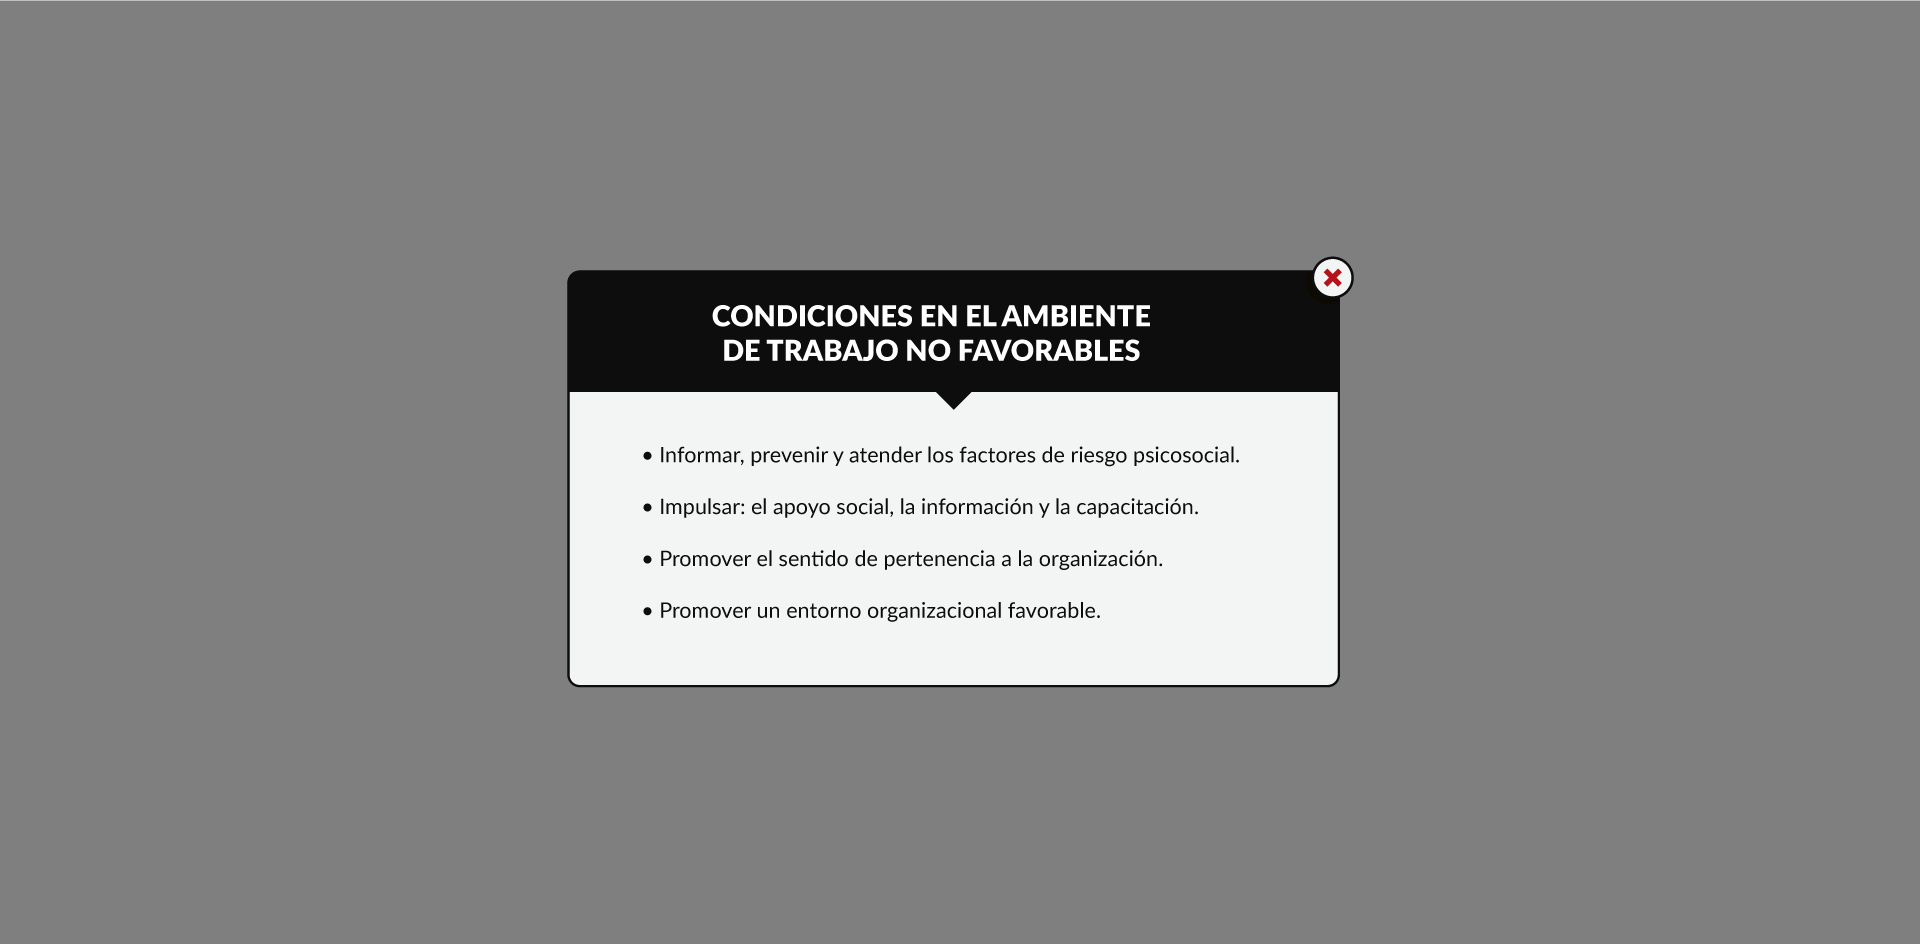
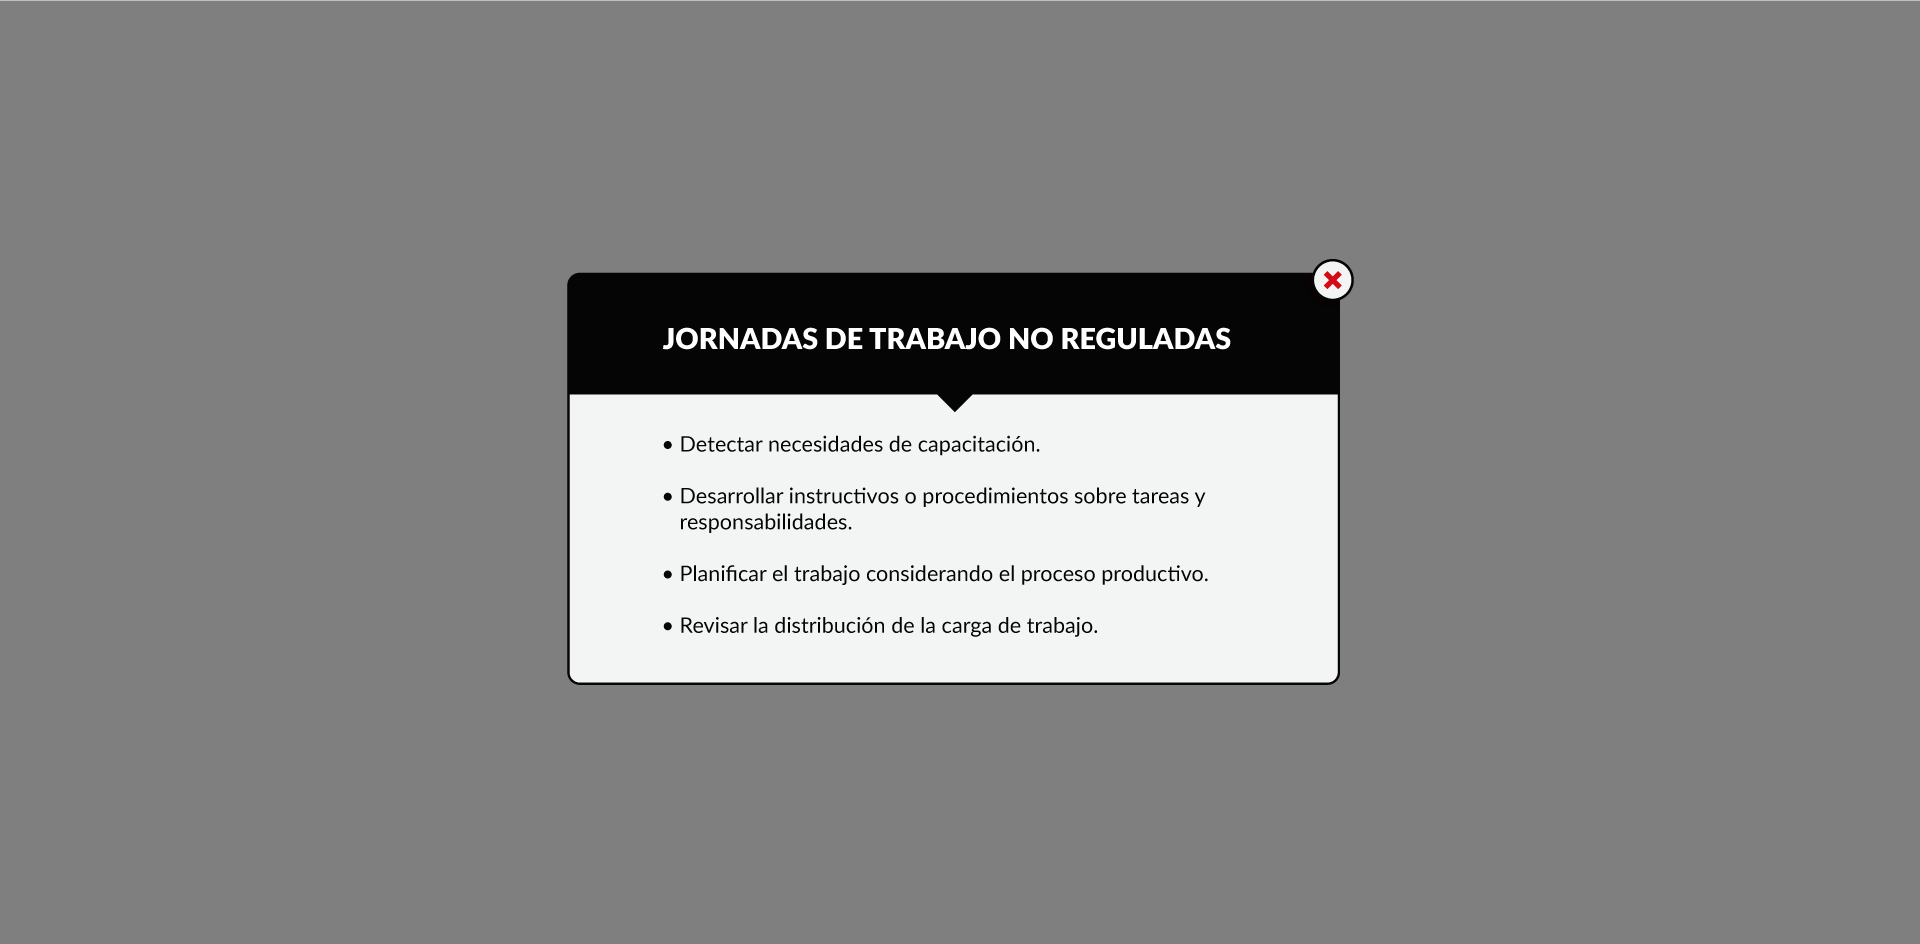
Botones pantalla9

diff --git a/normamexicana/nom_35/index.html b/normamexicana/nom_35/index.html
@@ -128,12 +128,16 @@
             <div id="nom8_img8" class="contentIMG" style='background-image: url("librerias/images/page9/img08.png"); width: 100vw; height: calc(100vw*944/1920);'></div>
             <div id="nom8_img9" class="contentIMG" style='background-image: url("librerias/images/page9/img09.png"); width: 100vw; height: calc(100vw*944/1920);'></div>
             <div id="nom8_img10" class="contentIMG" style='background-image: url("librerias/images/page9/img10.png"); width: 100vw; height: calc(100vw*944/1920);'></div>
+            <div id="nom8_img11" class="contentIMG" style='background-image: url("librerias/images/page9/img11.png"); width: 100vw; height: calc(100vw*944/1920);'></div>
            
-            <div id="click1" style="cursor: pointer;width: 3vw;height: 3vw;top: 3vw;right: 32vw; background-color:rgba(67, 67, 168, 0.369);"></div>
-            <div id="cerrar1" style="cursor: pointer;width: 3vw;height: 3vw;top: 16vw;right: 32vw; background-color:rgba(151, 67, 168, 0.473);"></div>
-            <!--<div id="click2" style="cursor: pointer;width: 4vw;height: 4vw;top: 13vw;right: 32vw; background-color:#4343a85e;"></div>
-            <div id="click3" style="cursor: pointer;width: 4vw;height: 4vw;top: 13vw;right: 32vw; background-color:#4343a85e;"></div>
-            <div id="click4" style="cursor: pointer;width: 4vw;height: 4vw;top: 13vw;right: 32vw; background-color:#4343a85e;"></div>-->
+            <div id="click1" style="cursor: pointer;width: 3vw;height: 3vw;top: 8vw;right: 80.3vw; background-color:rgba(67, 67, 168, 0.369);"></div>
+            <div id="cerrar1" style="cursor: pointer;width: 3vw;height: 3vw;top: 13.3vw;right: 29.1vw; background-color:rgba(151, 67, 168, 0.473);"></div>
+            <div id="click2" style="cursor: pointer;width: 3vw;height: 3vw;top: 8vw;right: 18.9vw; background-color:#4343a85e;"></div>
+            <div id="cerrar2" style="cursor: pointer;width: 3vw;height: 3vw;top: 10.5vw;right: 29.1vw; background-color:rgba(151, 67, 168, 0.473);"></div>
+            <div id="click3" style="cursor: pointer;width: 3vw;height: 3vw;top: 30.7vw;right: 58.3vw; background-color:#4343a85e;"></div>
+            <div id="cerrar3" style="cursor: pointer;width: 3vw;height: 3vw;top: 13.3vw;right: 29.1vw; background-color:rgba(151, 67, 168, 0.473);"></div>
+            <div id="click4" style="cursor: pointer;width: 3vw;height: 3vw;top: 30.3vw;right: 39.5vw; background-color:#4343a85e;"></div>
+            <div id="cerrar4" style="cursor: pointer;width: 3vw;height: 3vw;top: 13.3vw;right: 29.1vw; background-color:rgba(151, 67, 168, 0.473);"></div>
 
 
 

diff --git a/normamexicana/nom_35/librerias/js/_main.js b/normamexicana/nom_35/librerias/js/_main.js
@@ -292,7 +292,14 @@ function slide8 (i) {
     $("#nom8_img8").fadeOut();
     $("#nom8_img9").fadeOut();
     $("#nom8_img10").fadeOut();
+    $("#nom8_img11").fadeOut();
     $("#cerrar1").fadeOut();
+    $("#click2").fadeOut();
+    $("#cerrar2").fadeOut();
+    $("#click3").fadeOut();
+    $("#cerrar3").fadeOut();
+    $("#click4").fadeOut();
+    $("#cerrar4").fadeOut();
 
     $("#click1").click(function(){
        
@@ -301,6 +308,62 @@ function slide8 (i) {
         $("#cerrar1").fadeIn();
 
     });
+
+    $("#cerrar1").click(function(){
+       
+      $("#cerrar1").fadeOut();
+      $("#nom8_img8").fadeOut();
+      $("#click2").fadeIn();
+
+  });
+
+  $("#click2").click(function(){
+       
+    $("#click2").fadeOut();
+    $("#nom8_img9").fadeIn();
+    $("#cerrar2").fadeIn();
+
+});
+
+$("#cerrar2").click(function(){
+   
+  $("#cerrar2").fadeOut();
+  $("#nom8_img9").fadeOut();
+  $("#click3").fadeIn();
+
+});
+
+$("#click3").click(function(){
+       
+  $("#click3").fadeOut();
+  $("#nom8_img10").fadeIn();
+  $("#cerrar3").fadeIn();
+
+});
+
+$("#cerrar3").click(function(){
+ 
+$("#cerrar3").fadeOut();
+$("#nom8_img10").fadeOut();
+$("#click4").fadeIn();
+
+});
+
+$("#click4").click(function(){
+       
+  $("#click4").fadeOut();
+  $("#nom8_img11").fadeIn();
+  $("#cerrar4").fadeIn();
+
+});
+
+$("#cerrar4").click(function(){
+ 
+$("#cerrar4").fadeOut();
+$("#nom8_img11").fadeOut();
+
+});
+
 
 
 
